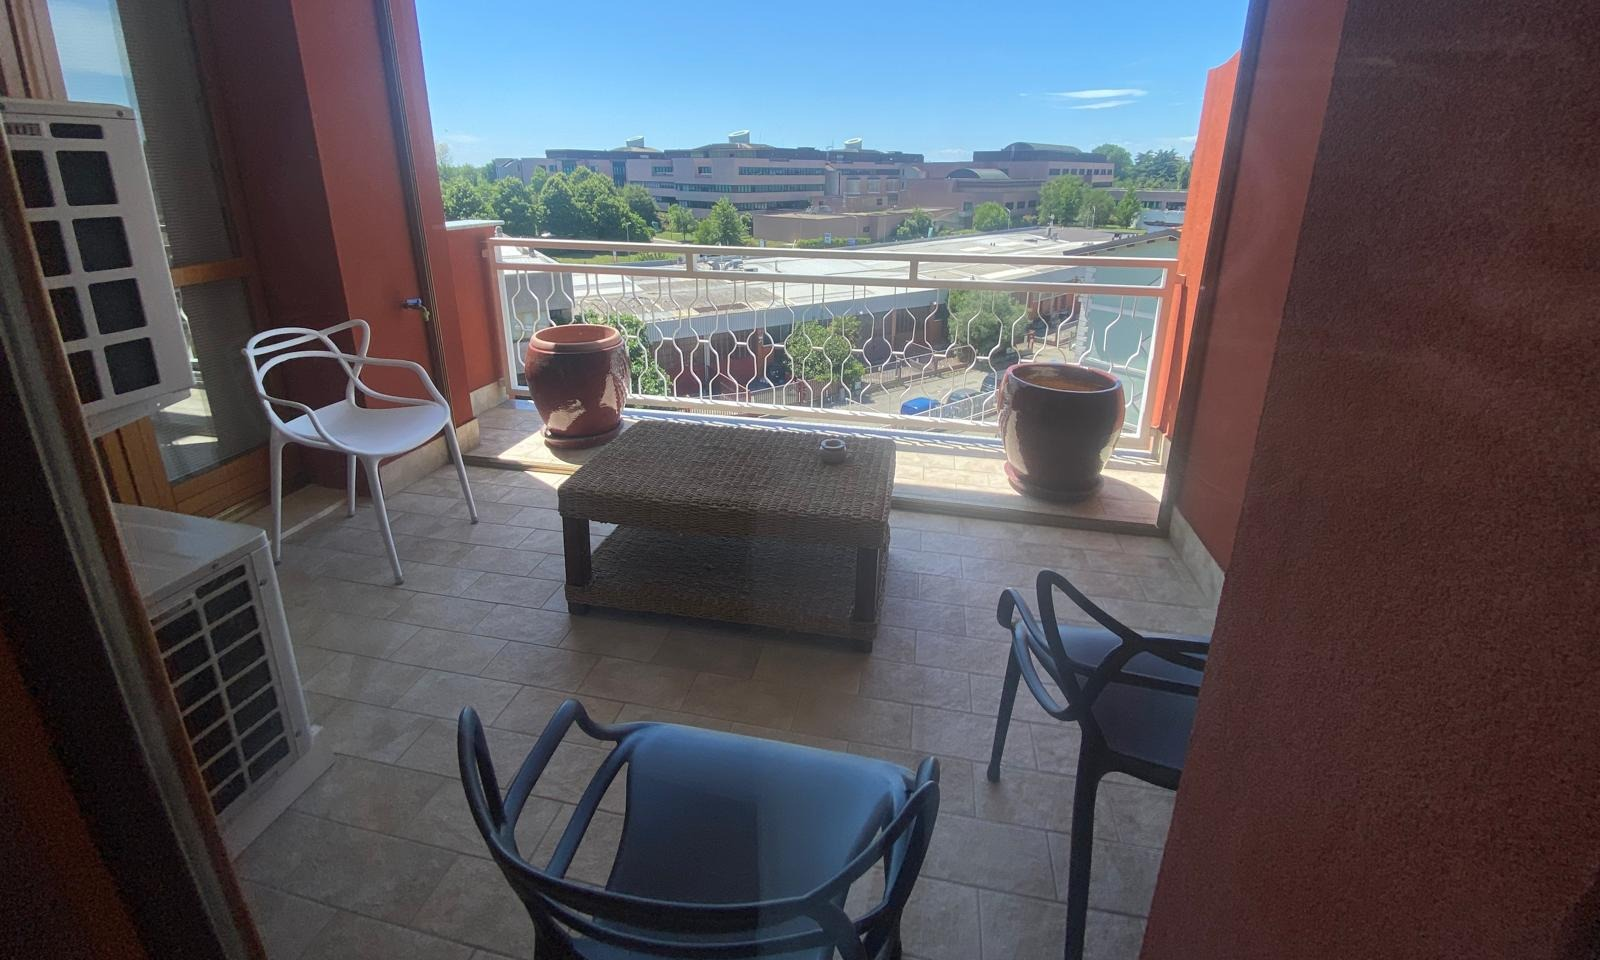
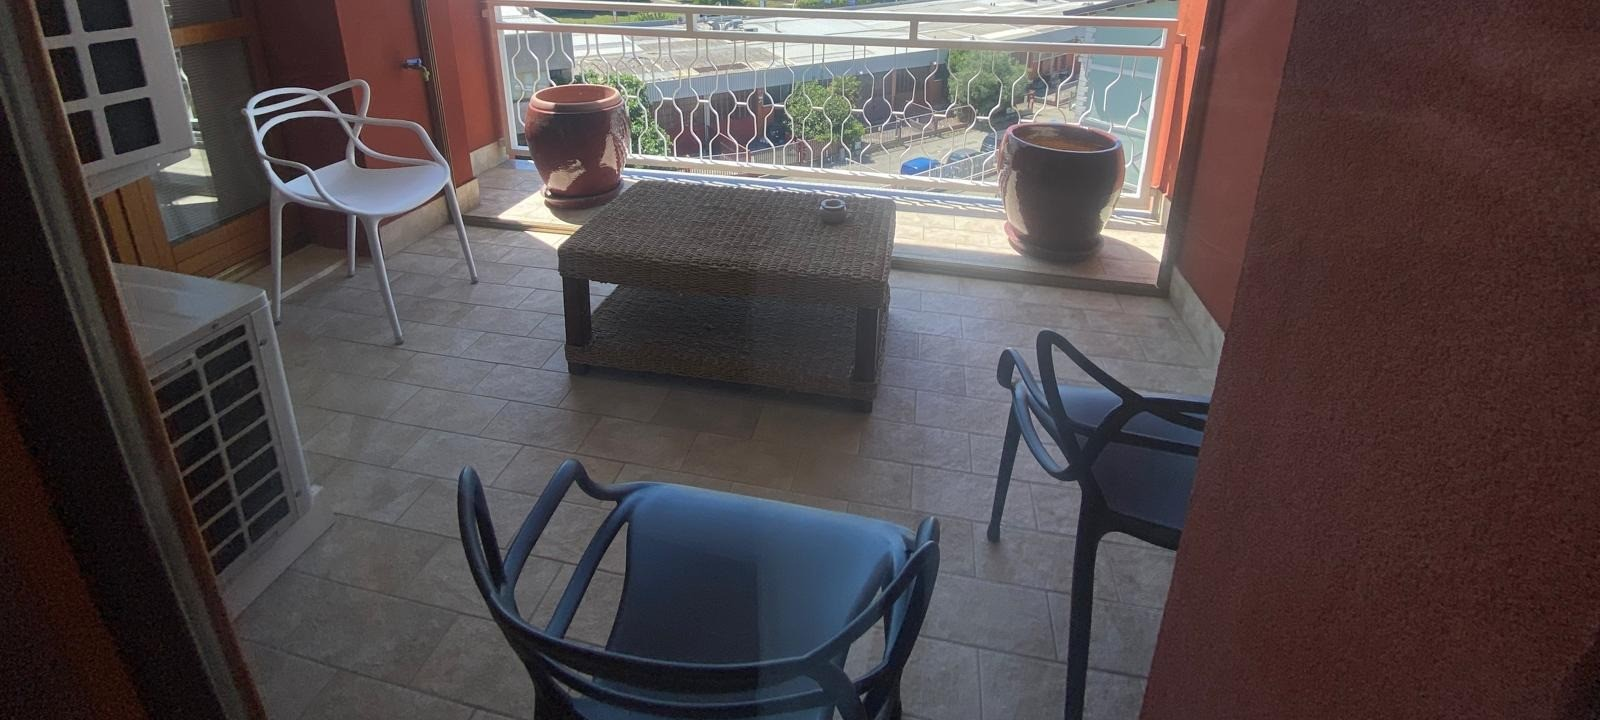
Hero: lampadario tagliato + scritta in basso

diff --git a/app/page.tsx b/app/page.tsx
@@ -72,11 +72,11 @@ export default function Home() {
       </header>
 
       {/* HERO */}
-      <section className="relative text-white px-4 overflow-hidden flex flex-col justify-center" style={{ minHeight: '420px', maxHeight: '560px' }}>
+      <section className="relative text-white px-4 overflow-hidden flex flex-col justify-end" style={{ minHeight: '420px', maxHeight: '560px' }}>
         <img src="/hero-mobile.jpg" alt="Vista Humanitas dal balcone" className="absolute inset-0 w-full h-full object-cover md:hidden" style={{ objectPosition: 'center 45%' }} />
         <img src="/hero-desktop.jpg" alt="Vista Humanitas dal balcone" className="absolute inset-0 w-full h-full object-cover hidden md:block" style={{ objectPosition: 'center 40%' }} />
         <div className="absolute inset-0 bg-black/10" />
-        <div className="relative max-w-4xl mx-auto text-center w-full">
+        <div className="relative max-w-4xl mx-auto text-center w-full pb-8">
           <h2 style={loraStyle} className="text-3xl md:text-5xl font-semibold mb-4 leading-tight">
             Tu sei qui per Humanitas.<br />Noi siamo qui per te.
           </h2>